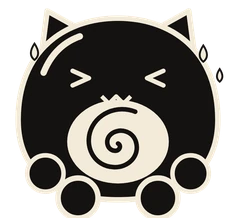
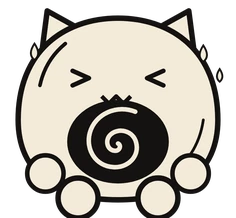
fix(dashboard): Pumpy thân kem nét đen, sát dưới tay cô tóc bạch kim
- Đảo màu Pumpy: thân/tai/tay chân màu kem viền đen, bụng đen xoáy kem, mắt và
  miệng zigzag nét đen; bớt giống bóng mèo đen.
- Dời Pumpy và quả tạ lên/sang phải để đỉnh đầu chạm bàn tay quấn băng.

Claude-Session: https://claude.ai/code/session_01BEkzRAmJrhCBxdxCSw4XCL

diff --git a/src/main/webapp/css/dashboard-comic.css b/src/main/webapp/css/dashboard-comic.css
@@ -141,8 +141,8 @@ html body.dock .pt-board__hero .wx-card__temp { color: var(--comic-ink); -webkit
 .comic-p--sketch { left: 18.917%; top: 46.834%; width: 12.875%; }
 .comic-p--boxer { left: 91.458%; top: 26.882%; width: 8.167%; }
 .comic-p--platinum { left: 69.375%; top: 11.47%; width: 17.917%; }
-.comic-p--pumpy { left: 78.625%; top: 68.339%; width: 9.833%; }
-.comic-p--pumpy-bell { left: 79.0%; top: 85.066%; width: 9.083%; }
+.comic-p--pumpy { left: 79.5%; top: 64.516%; width: 9.833%; }
+.comic-p--pumpy-bell { left: 79.875%; top: 81.243%; width: 9.083%; }
 .comic-move--run { animation: comic-run-bob calc(var(--comic-cycle) / 16) ease-in-out infinite; }
 .comic-move--lift { animation: comic-lift var(--comic-cycle) ease-in-out infinite; }
 .comic-move--press { animation: comic-press calc(var(--comic-cycle) / 2) ease-in-out infinite; }
